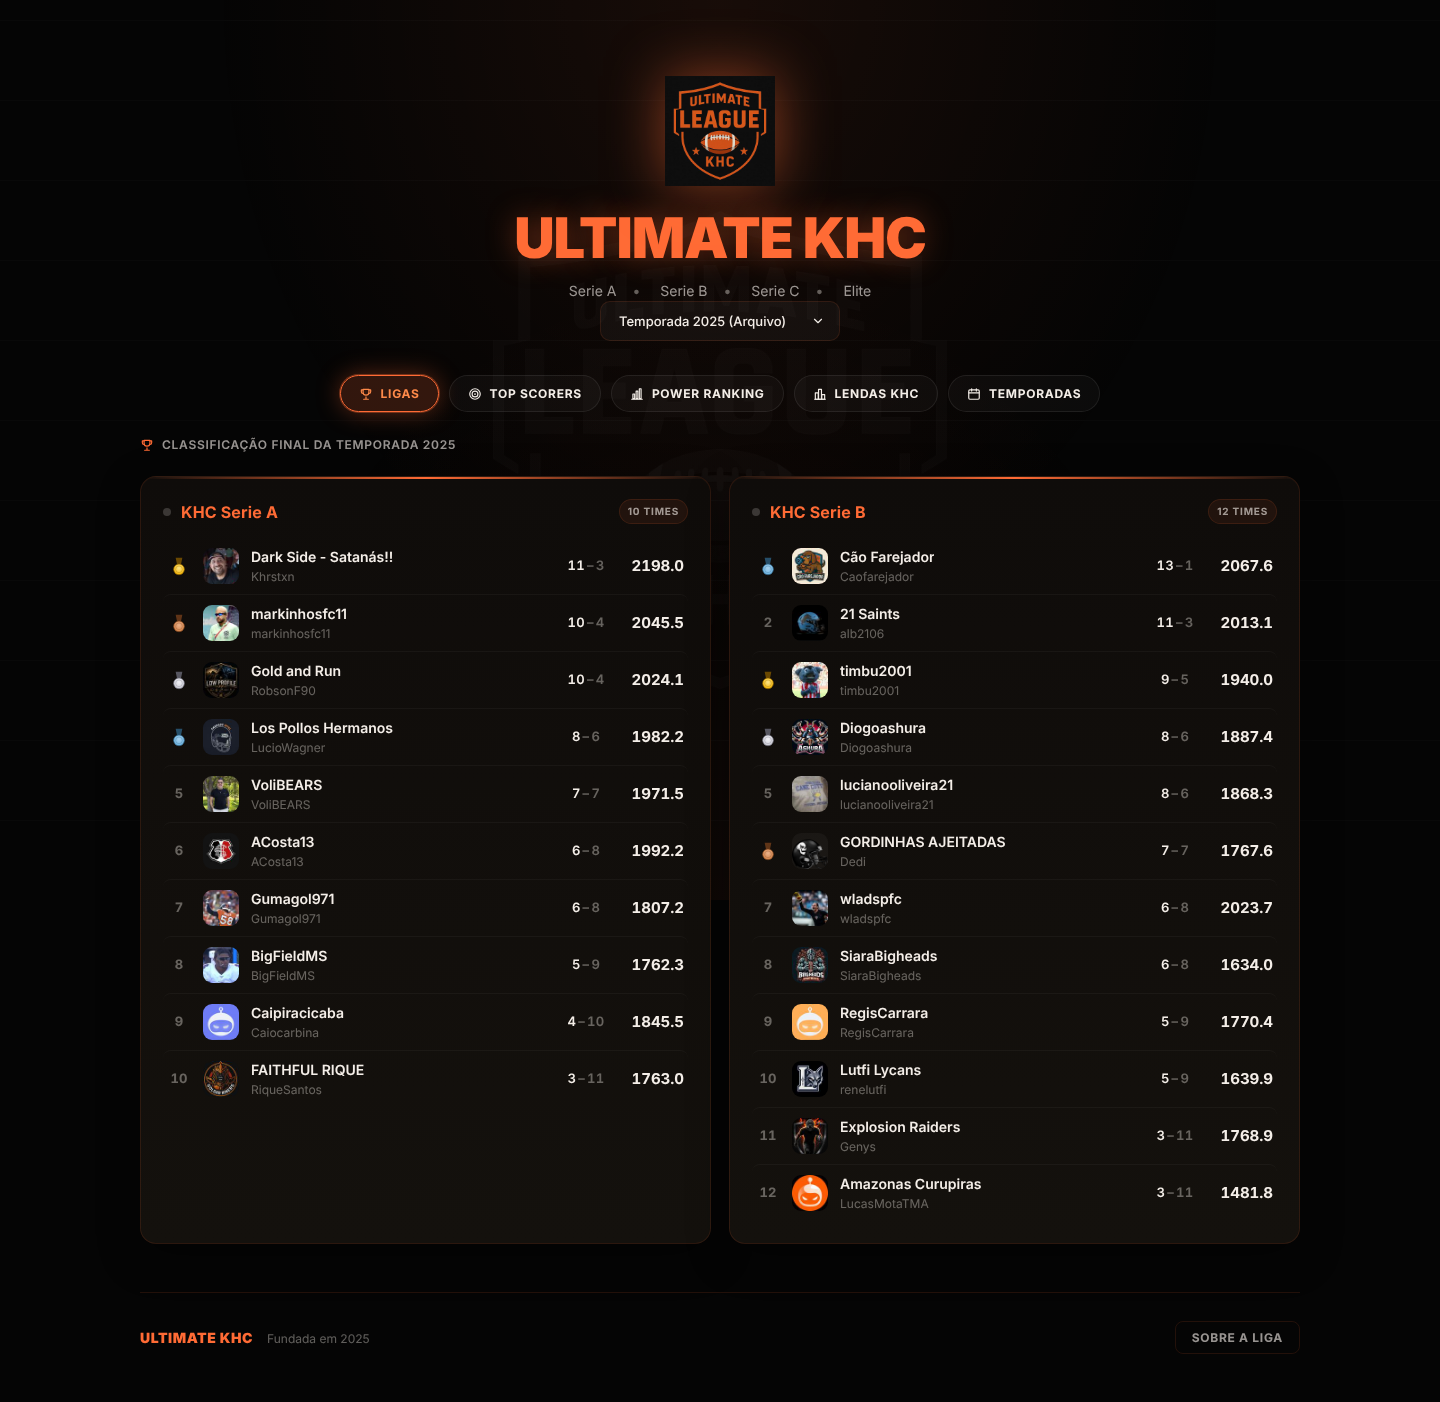
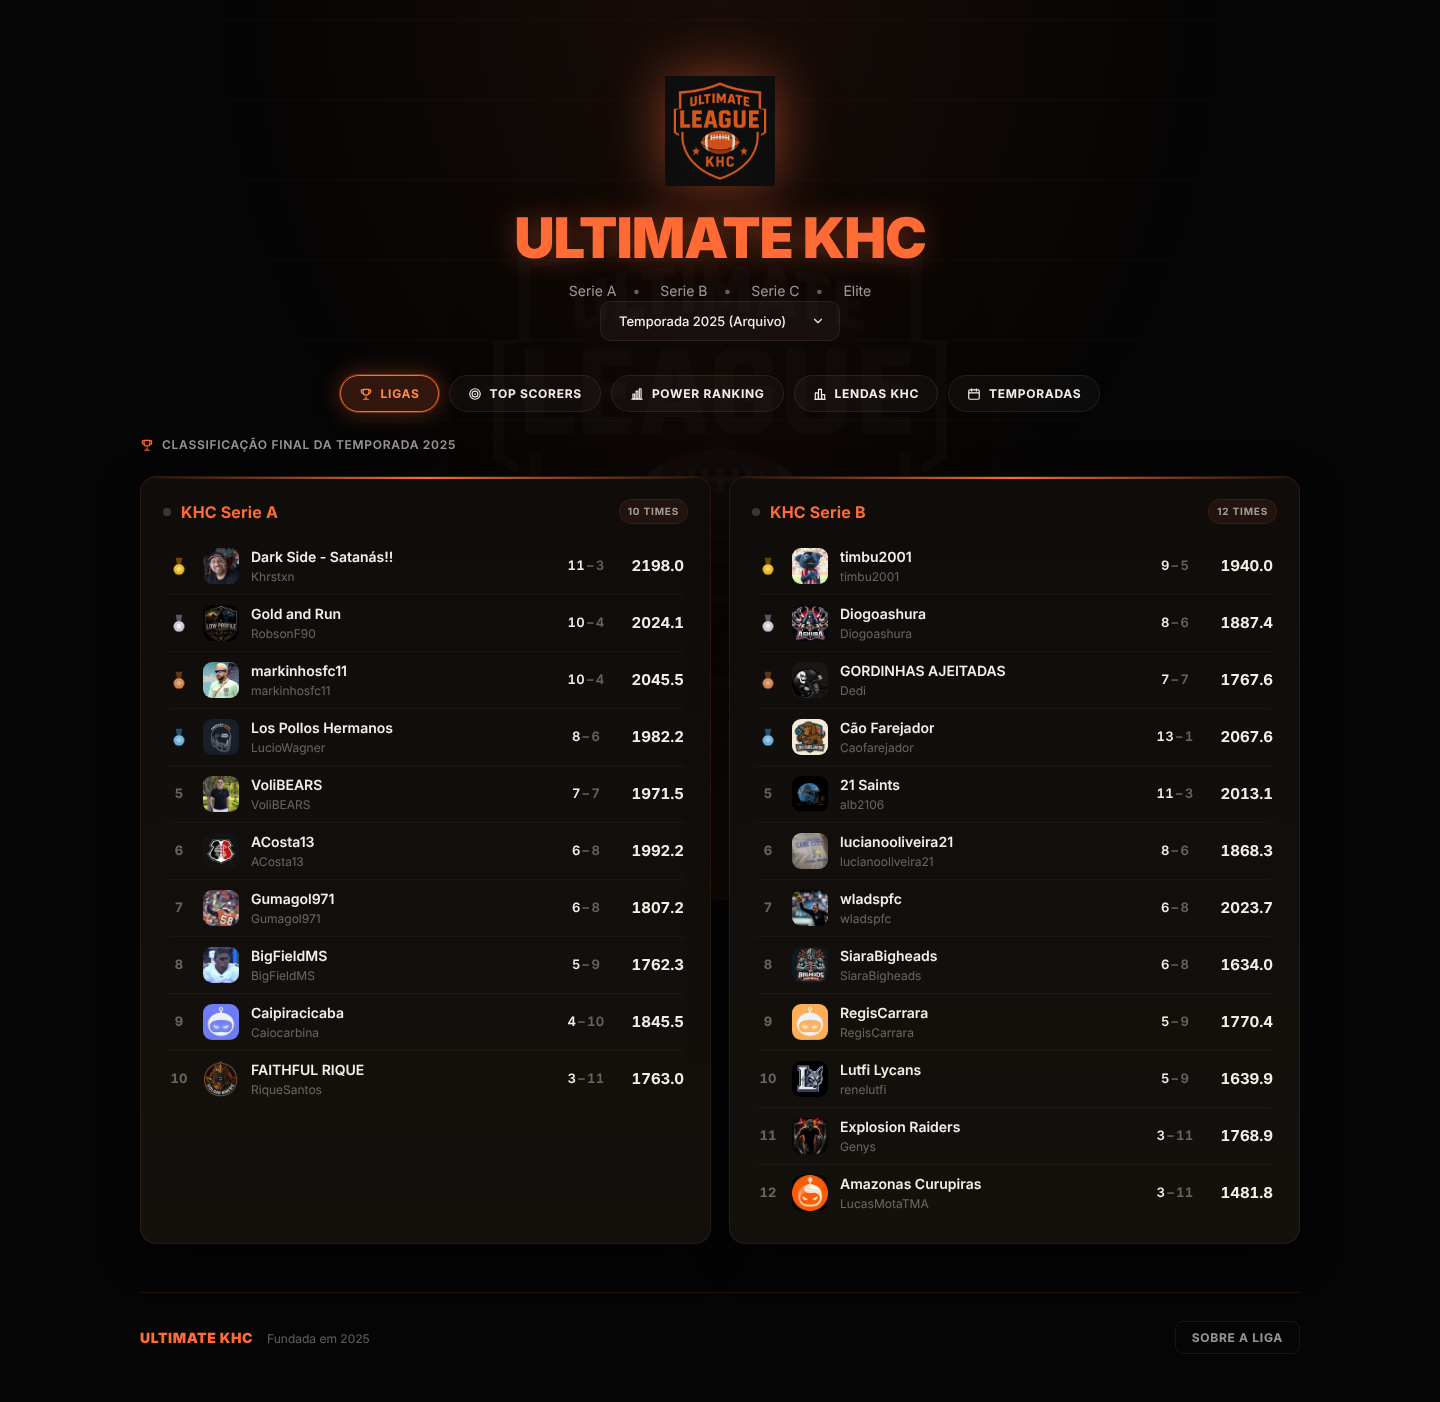
feat(ligas): ordena temporadas finalizadas pelo resultado final dos playoffs
Usa o rank do data/<ano>.json (1º–4º pelos playoffs, 5º+ pela temporada
regular), cruzando por usuário em vez do nome do time. Medalhas também
passam a ser resolvidas por usuário. Temporada ativa mantém a ordem da
Sleeper (vitórias → pontos).

Claude-Session: https://claude.ai/code/session_01Bfcibmf1UqX98e5nufTurY

Changed region(s): [[0.5312, 0.368, 0.6875, 0.6134], [0.125, 0.4294, 0.25, 0.5214], [0.8438, 0.3987, 0.875, 0.4907]]

diff --git a/js/tabs/ligas.js b/js/tabs/ligas.js
@@ -8,27 +8,29 @@
 // isSeasonFinalized() agora vive em data.js (fonte única).
 
 // -----------------------------------------------------------------------------
-// Trophy index — memoizado por temporada
+// Índice da classificação final — memoizado por temporada
 // -----------------------------------------------------------------------------
 //
-// Antes: findTeamTrophy() fazia 3 .find() lineares por chamada, chamado dentro
-// do forEach de times. Para 4 séries × 12 times = 48 chamadas, ~144 buscas
-// lineares por render. Agora indexamos uma vez ({seriesName → {teamName → trophy}})
-// e o lookup vira O(1). Cache invalida quando appState.season muda.
+// Para temporada finalizada, data/<ano>.json guarda a posição final de cada
+// time (`rank`: 1º–4º pelos playoffs, 5º em diante pela temporada regular) e
+// o troféu do top 4. Indexamos uma vez por {seriesName → {user → {rank,
+// trophy}}} e o lookup vira O(1). Chave por usuário (display_name), que é o
+// mesmo no JSON e na Sleeper — o nome do time pode mudar.
+// Cache invalida quando appState.season muda.
 // -----------------------------------------------------------------------------
 
-let _trophyIndexCache = null;
-let _trophyIndexCacheSeason = null;
+let _finalIndexCache = null;
+let _finalIndexCacheSeason = null;
 
 /**
- * Retorna `{ seriesName: { teamName: trophy } }` para a temporada atual.
+ * Retorna `{ seriesName: { user: { rank, trophy } } }` para a temporada atual.
  * Vazio se temporada não finalizada ou ausente do snapshot.
- * @returns {Object<string, Object<string, string>>}
+ * @returns {Object<string, Object<string, {rank: number, trophy: (string|null)}>>}
  */
-function getTrophyIndex() {
+function getFinalStandingsIndex() {
     const currentSeason = appState.season;
-    if (_trophyIndexCacheSeason === currentSeason && _trophyIndexCache) {
-        return _trophyIndexCache;
+    if (_finalIndexCacheSeason === currentSeason && _finalIndexCache) {
+        return _finalIndexCache;
     }
     const idx = {};
     try {
@@ -38,16 +40,32 @@ function getTrophyIndex() {
             season.series.forEach(srs => {
                 idx[srs.name] = {};
                 (srs.teams || []).forEach(t => {
-                    if (t.trophy) idx[srs.name][t.team] = t.trophy;
+                    idx[srs.name][t.user] = { rank: t.rank, trophy: t.trophy || null };
                 });
             });
         }
     } catch (e) {
         // mantém idx vazio
     }
-    _trophyIndexCache = idx;
-    _trophyIndexCacheSeason = currentSeason;
+    _finalIndexCache = idx;
+    _finalIndexCacheSeason = currentSeason;
     return idx;
+}
+
+/**
+ * Ordena os times pela classificação final (playoffs) quando houver.
+ * Times sem entrada no snapshot vão para o fim, mantendo a ordem original.
+ * @param {Array} teams      rosterData da série (já ordenado por campanha)
+ * @param {Object<string, {rank: number}>|undefined} seriesIdx
+ * @returns {Array}
+ */
+function sortByFinalStandings(teams, seriesIdx) {
+    if (!seriesIdx) return teams;
+    const rankOf = t => (seriesIdx[t.ownerName] ? seriesIdx[t.ownerName].rank : Infinity);
+    return teams
+        .map((t, i) => ({ t, i }))
+        .sort((a, b) => (rankOf(a.t) - rankOf(b.t)) || (a.i - b.i))
+        .map(x => x.t);
 }
 
 /**
@@ -114,6 +132,7 @@ function buildRankCell(trophy, rankNum) {
  * @param {object} t Team registro do rosterData (legacy shape)
  * @param {number} index 0-based
  * @param {{ trophyForTeam: function(string): string|null, leagueName: string }} ctx
+ *        trophyForTeam recebe o ownerName (usuário).
  * @returns {string} HTML
  */
 function buildTeamRow(t, index, ctx) {
@@ -125,7 +144,7 @@ function buildTeamRow(t, index, ctx) {
     const safePts = sanitizeNumber(t.fpts, 0, VALIDATION.MAX_POINTS).toFixed(1);
     const rankNum = index + 1;
 
-    const trophy = ctx.trophyForTeam(t.teamName);
+    const trophy = ctx.trophyForTeam(t.ownerName);
     const rankCell = buildRankCell(trophy, rankNum);
     const ariaLabel = `${rankNum}º lugar: ${safeTeamName}, dono ${safeOwnerName}, ${wins} vitórias e ${losses} derrotas, ${safePts} pontos`;
 
@@ -181,15 +200,16 @@ function renderLeagueCard(leagueData, container, staggerIndex = 0) {
     const finalized = isSeasonFinalized();
     const teamCount = sanitizeNumber(leagueData.teams.length, 0, 100);
 
-    // Closure de lookup O(1) para trophy, com early-exit se temporada ativa
-    const trophyIdx = finalized ? getTrophyIndex() : null;
-    const trophyForTeam = (teamName) => {
-        if (!trophyIdx) return null;
-        const seriesIdx = trophyIdx[leagueData.info.name];
-        return seriesIdx ? (seriesIdx[teamName] || null) : null;
+    // Temporada finalizada: ordem e medalhas vêm da classificação final
+    // (playoffs). Ativa: mantém a ordem da Sleeper (vitórias → pontos).
+    const seriesIdx = finalized ? getFinalStandingsIndex()[leagueData.info.name] : undefined;
+    const trophyForTeam = (user) => {
+        const entry = seriesIdx && seriesIdx[user];
+        return entry ? entry.trophy : null;
     };
+    const teams = sortByFinalStandings(leagueData.teams, seriesIdx);
 
-    const rowsHtml = leagueData.teams
+    const rowsHtml = teams
         .map((t, i) => buildTeamRow(t, i, { trophyForTeam, leagueName: leagueData.info.name }))
         .join('');
 

diff --git a/review/UI-UX-REVIEW.md b/review/UI-UX-REVIEW.md
@@ -69,11 +69,12 @@ Qualquer proposta do Claude Design precisa ser implementável como **HTML/CSS es
 - **Ordem das ligas**: Elite primeiro (paralela) mistura com a hierarquia A→D. Considerar Elite em destaque separado.
 - `team-name` e `team-owner` às vezes são iguais (usuário sem nome de time) → linha repetida.
 - `.league-badge` "10 TIMES" ocupa espaço nobre e pouco informa.
-- **Temporada finalizada: ordem não bate com as medalhas** (visível depois da correção do B1). A lista segue a
-  campanha da temporada regular (vitórias → pontos), mas as medalhas vêm dos playoffs — na Serie B 2025 o campeão
-  aparece em 3º e o 4º colocado no topo. Além disso, o top-4 perde o número da posição (a medalha substitui o número).
-  Decisão de produto: ordenar pelo resultado final (`rank` do JSON) ou deixar explícito "Temporada regular" +
-  uma coluna/selo "Playoffs". Ver `screens/desktop-2025-leagues.png`.
+- ~~**Temporada finalizada: ordem não bate com as medalhas**~~ — ✅ corrigido: temporadas finalizadas agora são
+  ordenadas pela classificação final do `data/<ano>.json` (1º–4º pelos playoffs, 5º em diante pela temporada
+  regular), cruzando por usuário. Temporada ativa continua por vitórias → pontos.
+  **Para o Claude Design:** como o top-4 vem dos playoffs, a coluna V–D deixa de ser decrescente (ex.: 4º da
+  Serie B 2025 com 13–1). Vale um selo/legenda "Playoffs" separando o top-4 do resto, e manter o número da
+  posição junto da medalha (hoje a medalha substitui o número). Ver `screens/desktop-2025-leagues.png`.
 - Nome do time é o link do perfil, mas o perfil é do **dono** — affordance pouco clara (sem sublinhado/ícone).
 
 ### 3.3 Top Scorers
@@ -338,7 +339,8 @@ Career = { user, currentSeries, trophies:{gold,silver,bronze,fourth}, totalSeaso
 | Prioridade | Item |
 |---|---|
 | ✅ Feito | B1–B10 (medalhas, troca de temporada, Serie D no drawer, setas falsas, semana fixa, tier mobile, stats do drawer, séries atuais em temporada arquivada, escape de nomes, scroll lock) |
-| Agora (conteúdo / produto) | Subtítulo e modal sem Serie D (confirmar regra da Elite) · ordem da classificação final vs medalhas |
+| ✅ Feito | Classificação de temporadas finalizadas ordenada pelo resultado final dos playoffs |
+| Agora (conteúdo / produto) | Subtítulo e modal sem Serie D (confirmar regra da Elite) |
 | Redesign (Claude Design) | Header/navegação mobile · zonas na classificação · Top Scorers · Power Ranking · Lendas · tokens/escala/contraste |
 | Depois | URL por aba/perfil · dados ao vivo (semana, matchups, bracket) · limpeza do CSS morto |
 
@@ -349,7 +351,7 @@ Career = { user, currentSeries, trophies:{gold,silver,bronze,fourth}, totalSeaso
 |---|---|
 | `desktop-first-viewport.png`, `mobile-first-viewport.png` | 1ª dobra — header ocupando a tela |
 | `desktop-2026-*.png`, `mobile-2026-*.png` | Todas as abas, temporada ativa |
-| `desktop-2025-leagues.png` | B1 corrigido (medalhas) — e a ordem regular vs playoffs |
+| `desktop-2025-leagues.png`, `mobile-2025-leagues.png` | Temporada finalizada: medalhas (B1) e ordem pelo resultado final |
 | `desktop-2025-global.png`, `desktop-2025-power.png` | Temporada finalizada |
 | `mobile-2026-power.png` | B6 corrigido — tier como faixa horizontal |
 | `*-drawer.png`, `*-modal.png` | Perfil do jogador (mobile já com B7 corrigido) e Sobre a Liga |
